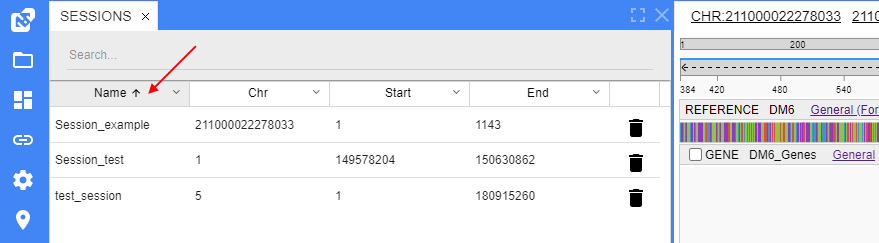
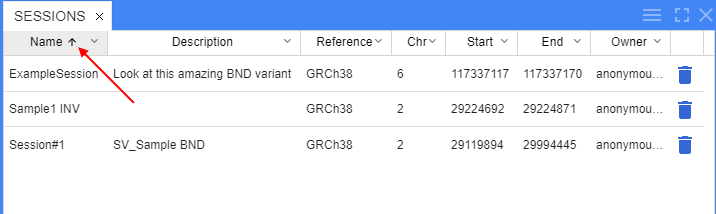
(Issue #534) 'Sessions sharing' doc

diff --git a/docs/md/user-guide/overview.md b/docs/md/user-guide/overview.md
@@ -31,7 +31,8 @@ The NGB user interface is implemented as a set of panels that can be resized, mo
 You can use the **VIEWS** menu to see the complete list of available panels and select the panels to be shown or hidden. The **VIEWS** menu is located on the main toolbar of the application:  
     ![NGB GUI](images/overview-1.png)
 
-By default, only following panels are shown: **Browser**, **Datasets**, **Genes** and **Variants**.
+By default, only following panels are shown: **Browser**, **Datasets**, **Genes** and **Variants**.  
+Let's take a look at these and other panels below.
 
 You can rearrange the layout of the NGB as follows:
 
@@ -361,26 +362,33 @@ You can bookmark a specific location in the browser.
 This action saves the state of the browser and opened tracks as well - so, it is called "saving the session".  
 It can be performed as follows:
 
-- Click the **Location** icon located in the main menu on the left page side. **_Note_**: the **Location** icon is being displayed only when any position/chromosome/reference is opened.
-- When clicked, the **Location** button will expand into a textbox.
-- Enter the desired session's name in a textbox.
-- Press **Enter** key to save the session.  
-    ![NGB GUI](images/overview-9.png)
+- Click the **Location** icon located in the main menu on the left page side.  
+  **_Note_**: the **Location** icon is being displayed only when any position/chromosome/reference is opened.
+- The pop-up will appear where session name (_mandatory_) and description (_optionally_) should be specified:  
+  ![NGB GUI](images/overview-9.png)
+- Once all desired data is specified - click the **Save** button to confirm:  
+  ![NGB GUI](images/overview-32.png)
 
-**_Note_**: session bookmarks are stored globally. Panel will show all saved **Sessions**
+**_Note_**: session bookmarks are stored globally. Panel will show all saved **Sessions** - from all NGB users.
 
 ![NGB GUI](images/overview-7.png)
 
 The **Sessions** panel has the following columns:
 
-- _Name_
-- _Chromosome_
-- _Start position_
-- _End position_
+- _Name_ - session name
+- _Description_ - session description
+- _Reference_ - reference name that was opened when the session was saved
+- _Chr_ - chromosome name that was opened when the session was saved
+- _Start position_ - start position at the reference
+- _End position_ - end position at the reference
+- _Owner_ - user name who saved the session
 
 **To sort the sessions** according to a specific property - click the header of the corresponding column, e.g.:  
-    ![NGB GUI](images/overview-8.png)  
-**To navigate to a location** bookmarked in the certain session - click the corresponding row of the table.  
+  ![NGB GUI](images/overview-8.png)  
+**To navigate to a location** bookmarked in the certain session - click the corresponding row of the table:  
+  ![NGB GUI](images/overview-33.png)  
+  ![NGB GUI](images/overview-34.png)
+
 **To delete a session** bookmark - click the **Trash** icon of the corresponding row.
 
 ### Molecular viewer panel

diff --git a/docs/md/release-notes/2021-09/2021_09.md b/docs/md/release-notes/2021-09/2021_09.md
@@ -11,6 +11,7 @@
     - [Notifier about zoom level](#notifier-about-zoom-level)
     - [Restore panel view](#restore-panel-view)
     - [Download table data](#download-table-data)
+    - [Sessions sharing](#sessions-sharing)
 - [Bug fixes](#bug-fixes)
 
 ## Ability to highlight variants of interest
@@ -235,6 +236,18 @@ Once the setup is finished, user should click the **Download** button. Table wil
 The downloaded table will contain only the same data that was displayed in the table before the download (considering all filters and sortings).
 
 For details see [here](../../user-guide/overview.md#download-the-variants-table-data).
+
+### Sessions sharing
+
+Previously, saved sessions were stored locally. But in some cases, it would be convenient for the users to have the ability to give access for a session to other users - i.e. to share the session.  
+In this version, such ability is implemented.  
+Now, if the user save a session - it will be accessible to all other users that have access to the files of this session. Sessions are stored globally.
+
+Additionally, the ability to specify a description for the session appeared (not only session name):  
+  ![ReleaseNotes_2021-09](images/RN_Sessions_1.png)
+
+To the sessions table new columns were added - _Description_, _Reference_, _Owner_ (for the user who saved the session):  
+  ![ReleaseNotes_2021-09](images/RN_Sessions_2.png)
 
 ***
 
